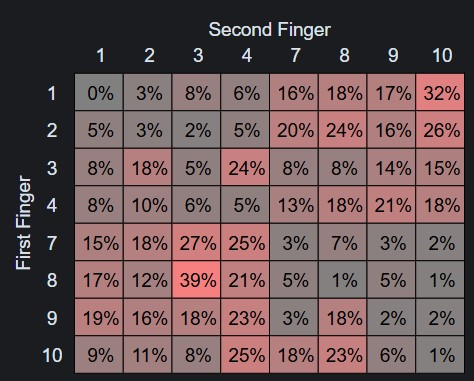
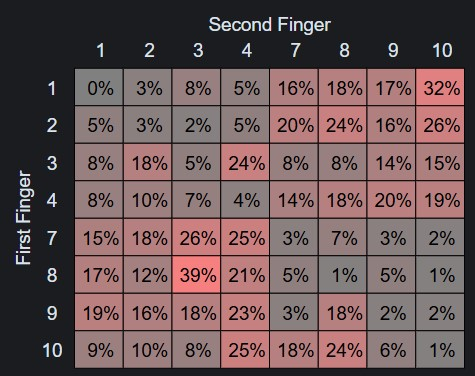
updated diamond\magenta r9 layout, added proof of learning it

diff --git a/README.md b/README.md
@@ -615,6 +615,9 @@ diamond\\crimson n9, unlocked all keys on February 5th 2026:
 diamond\\cyan r9, unlocked all keys on February 9th 2026:
 ![screenshot from keybr for learning the above layout](https://raw.githubusercontent.com/r134x7/diamond_backslash/refs/heads/main/images/keybr_diamond_backslash_cyan_r9_1.jpg)
 
+diamond\\magenta r9 (latest version), finished with J key left to unlock on February 24th 2026:
+![screenshot from keybr for learning the above layout](https://raw.githubusercontent.com/r134x7/diamond_backslash/refs/heads/main/images/keybr_diamond_backslash_magenta_r9_1.jpg)
+
 ---
 
 Adding to the above, I kept track of the amount of days I spent learning each layout.
